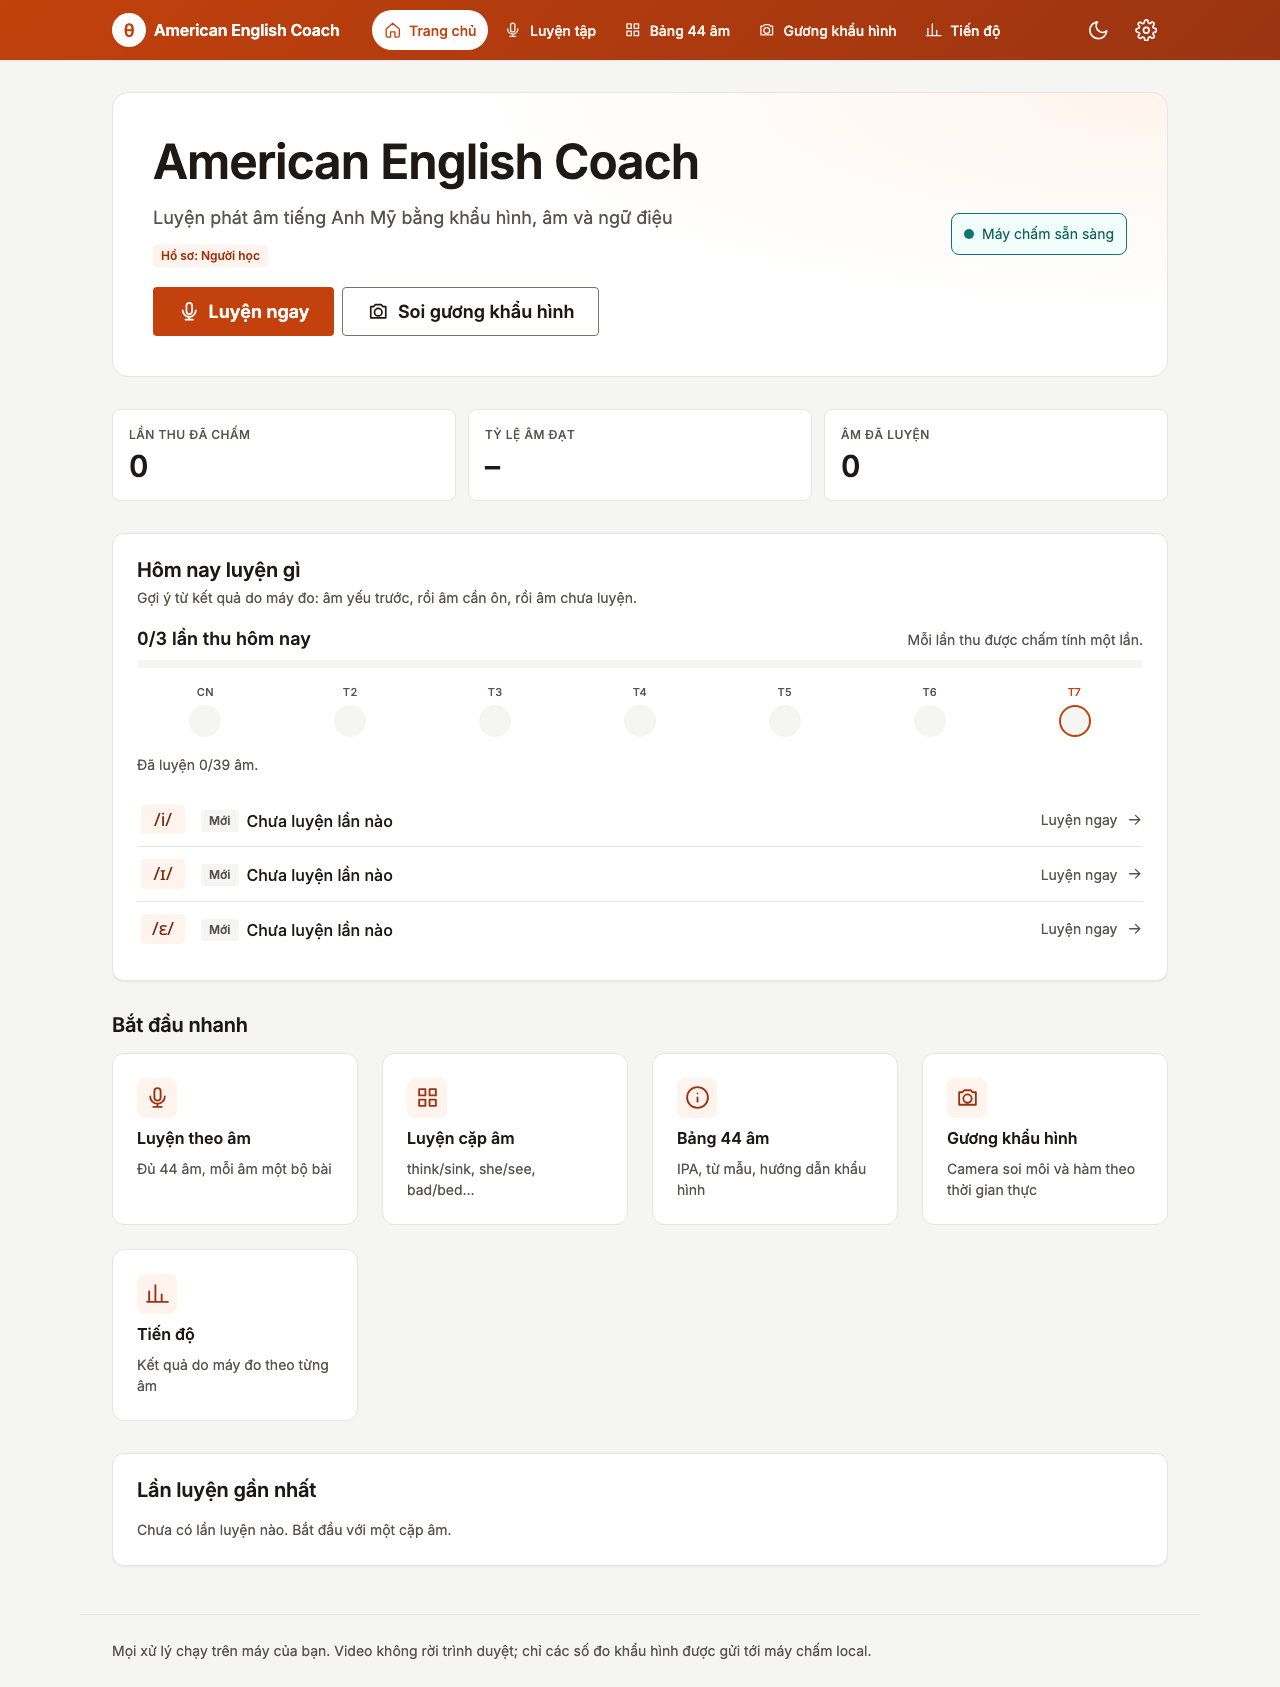
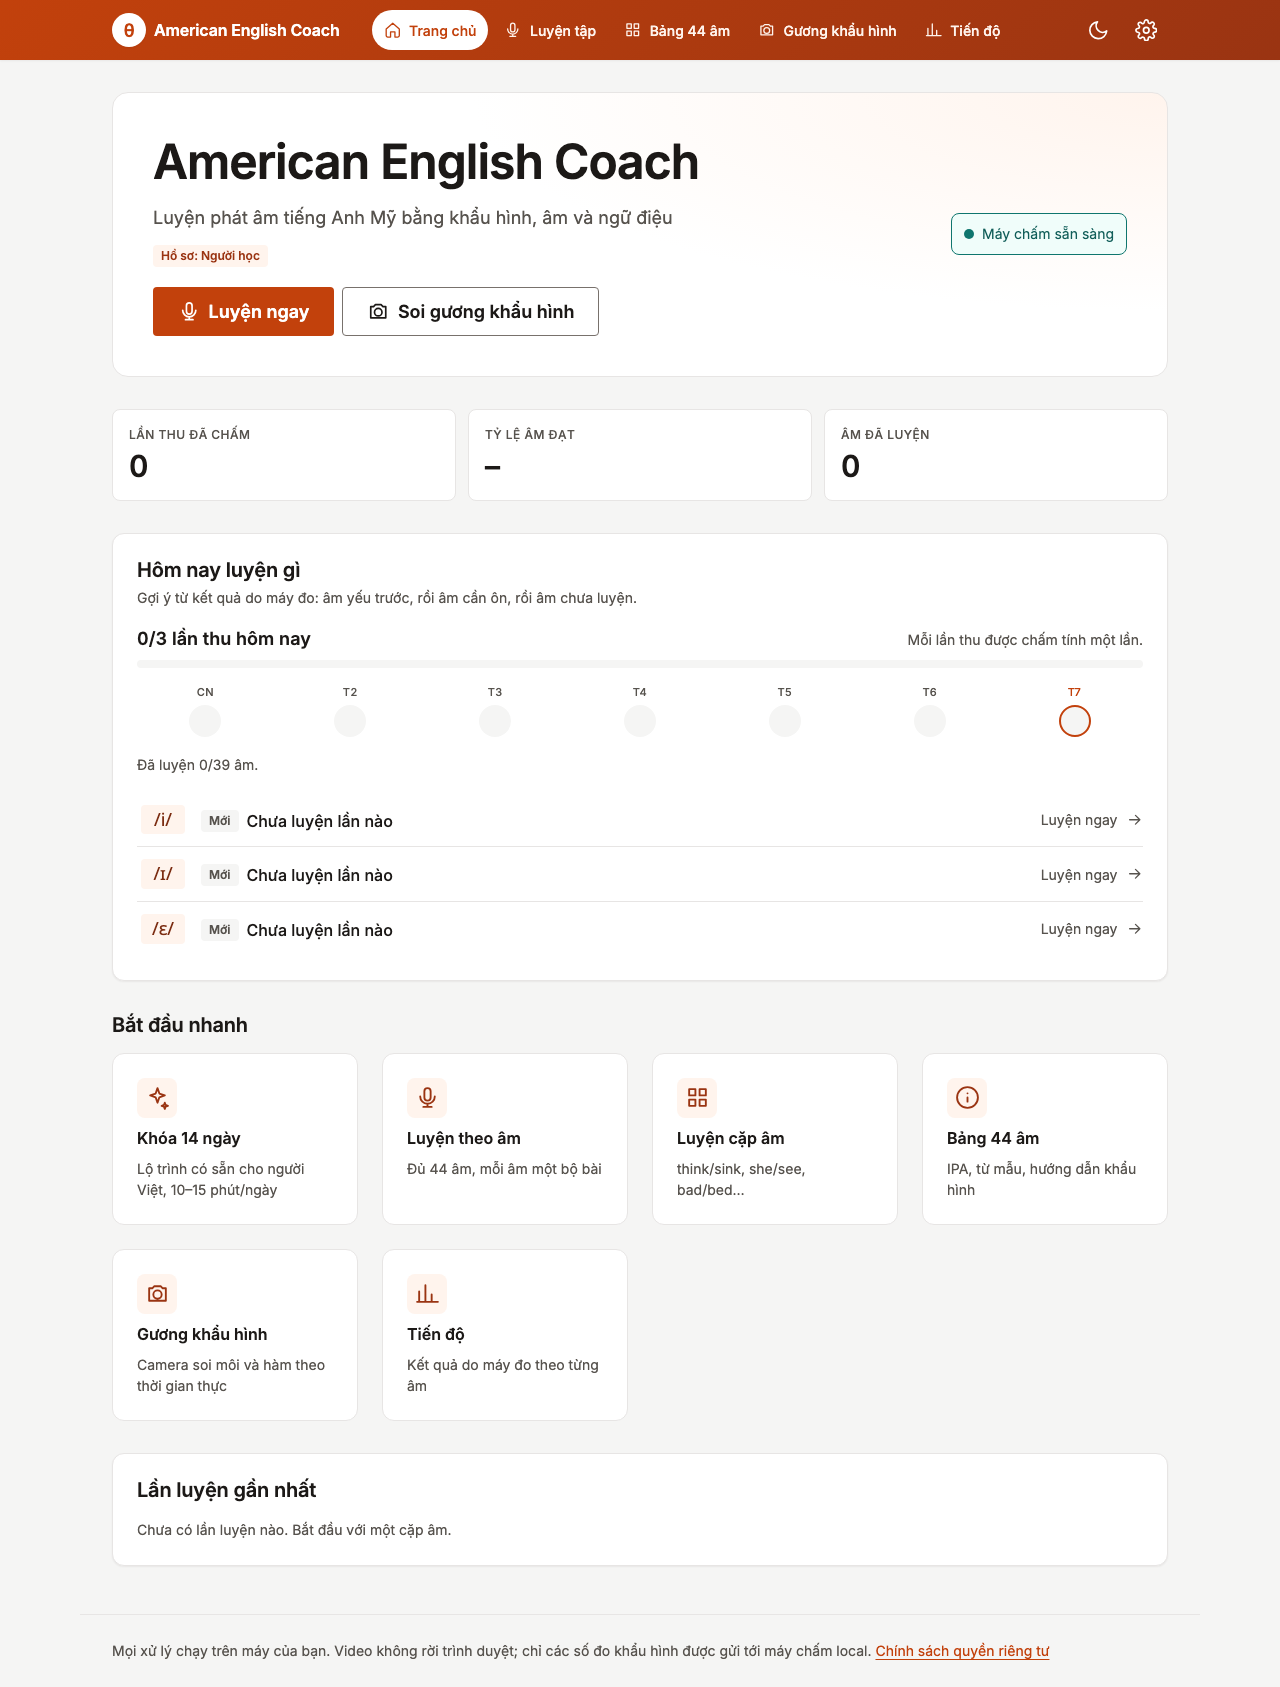
docs(docs): release kit, changelog and version 1.1.0

diff --git a/docs/ROADMAP.md b/docs/ROADMAP.md
@@ -27,8 +27,8 @@ Nguyên tắc không đổi: local-first (video không rời thiết bị), ba m
 | #   | Trạng thái | Hạng mục                              | Tiêu chí nghiệm thu                                                                                                                                                                                  |
 | --- | ---------- | ------------------------------------- | ---------------------------------------------------------------------------------------------------------------------------------------------------------------------------------------------------- |
 | C1  | ☑          | Bộ công cụ pilot người Việt (AEC-023) | `make pilot`: thu thập bản ghi có đồng ý (từ lượt chấm được gắn cờ), bảng chấm tay CSV, script tính precision/recall theo lỗi và sinh `enabled_errors.json` khi precision ≥ 0,85; tài liệu quy trình |
-| C2  | ☐          | Giọng mẫu chất lượng cao (AEC-022)    | Lớp `ReferenceVoice` chọn giọng theo thứ tự: clip người thật có giấy phép (nếu có trong `content/voice/`) → giọng hệ thống nâng cao; manifest giấy phép; phát trên iOS                               |
-| C3  | ☐          | Bài học có cấu trúc                   | Khóa 14 ngày cho người Việt (âm cuối, th, cặp nguyên âm dài/ngắn, trọng âm, ngữ điệu); mỗi ngày 10–15 phút, nối với kế hoạch tuần; nội dung trong `content/course.json` có test tính hợp lệ          |
+| C2  | ☑          | Giọng mẫu chất lượng cao (AEC-022)    | Lớp `ReferenceVoice` chọn giọng theo thứ tự: clip người thật có giấy phép (nếu có trong `content/voice/`) → giọng hệ thống nâng cao; manifest giấy phép; phát trên iOS                               |
+| C3  | ☑          | Bài học có cấu trúc                   | Khóa 14 ngày cho người Việt (âm cuối, th, cặp nguyên âm dài/ngắn, trọng âm, ngữ điệu); mỗi ngày 10–15 phút, nối với kế hoạch tuần; nội dung trong `content/course.json` có test tính hợp lệ          |
 
 ## Giai đoạn D — Phát hành
 
@@ -36,8 +36,8 @@ Nguyên tắc không đổi: local-first (video không rời thiết bị), ba m
 | --- | ---------- | ---------------------------------- | -------------------------------------------------------------------------------------------------------------------------------------------------------------------------- |
 | D1  | ☑          | HTTPS cho máy chấm từ xa (AEC-025) | Hướng dẫn Caddy và Tailscale; app chấp nhận `https://`; CORS cho origin https; kiểm tra tay                                                                                |
 | D2  | ☐          | Hồ sơ phát hành iOS (AEC-024)      | `docs/release/`: checklist TestFlight, văn bản App Store (vi/en), chính sách riêng tư, kích cỡ ảnh chụp, bump version/build theo tag; ký thật cần Apple Team của chủ dự án |
-| D3  | ☐          | Đóng gói Docker đã kiểm chứng      | `make up` build và chạy được, `/ready` xanh trong container                                                                                                                |
-| D4  | ☐          | Phiên bản và nhật ký thay đổi      | `CHANGELOG.md` theo Keep a Changelog; tag `v1.1.0` khi A–B xong                                                                                                            |
+| D3  | ◐          | Đóng gói Docker đã kiểm chứng      | `make up` build và chạy được, `/ready` xanh trong container                                                                                                                |
+| D4  | ◐          | Phiên bản và nhật ký thay đổi      | `CHANGELOG.md` theo Keep a Changelog; tag `v1.1.0` khi A–B xong                                                                                                            |
 
 ## Ngoài phạm vi tự làm (cần chủ dự án)
 

diff --git a/docs/release/app-store.md b/docs/release/app-store.md
@@ -1,0 +1,45 @@
+# Văn bản App Store
+
+## Tiếng Việt
+
+**Tên**: American English Coach
+**Phụ đề** (30): Luyện phát âm bằng khẩu hình
+**Từ khóa** (100): phát âm,tiếng anh,ipa,khẩu hình,luyện nói,english pronunciation,44 âm,th,ngữ điệu
+**Mô tả quảng bá** (170): Máy chấm từng âm chạy ngay trên máy tính của bạn; camera soi khẩu hình; kế hoạch tuần và khóa 14 ngày cho người Việt.
+
+**Mô tả**:
+American English Coach giúp người Việt luyện phát âm tiếng Anh Mỹ theo cách giáo viên làm: nhìn khẩu hình, nghe từng âm, sửa ngữ điệu.
+
+- Đủ 44 âm, mỗi âm một bộ bài: từ, cặp tối thiểu, câu — tất cả đã kiểm tra bằng từ điển.
+- Chấm từng âm bằng mô hình nhận diện âm vị chạy trên máy tính của bạn; ba mức rõ ràng: đạt, nghe lại, sai.
+- Camera theo dõi môi, hàm, răng và lưỡi lộ ra; gương khẩu hình với mẫu cho từng âm.
+- Nhận xét ngữ điệu: trọng âm, nhịp, lên xuống giọng cuối câu.
+- Kế hoạch tuần tính từ kết quả đo: âm yếu, âm cần ôn, âm mới; chuỗi ngày liên tiếp và nhắc luyện.
+- Khóa 14 ngày thiết kế cho lỗi thường gặp của người Việt: âm cuối, th, nguyên âm dài ngắn, trọng âm.
+- Nhiều hồ sơ người học trên một máy chấm; xuất nhập dữ liệu.
+
+Quyền riêng tư: video không bao giờ rời điện thoại. Bản ghi âm và số đo khẩu hình chỉ gửi tới máy chấm do bạn tự chạy trên máy tính trong cùng mạng. Không tài khoản, không quảng cáo, không theo dõi.
+
+Yêu cầu: máy tính (macOS) chạy máy chấm theo hướng dẫn trong ứng dụng.
+
+## English
+
+**Name**: American English Coach
+**Subtitle**: Pronunciation with mouth-shape feedback
+**Keywords**: pronunciation,american english,ipa,mouth shape,speaking,vietnamese,44 sounds,th,intonation
+**Promotional text**: Per-sound scoring that runs on your own computer, a camera mirror for mouth shape, a weekly plan and a 14-day course for Vietnamese learners.
+
+**Description**:
+American English Coach helps Vietnamese learners practise American English the way a teacher does: watch the mouth, listen to every sound, fix the intonation.
+
+- All 44 sounds, one deck each: words, minimal pairs and sentences, all dictionary-checked.
+- Every sound scored by a phoneme model running on your computer, with three honest levels: on target, listen again, wrong.
+- The camera follows lips, jaw, visible teeth and tongue; a mouth mirror with a target for each sound.
+- Intonation feedback: stress, rhythm and the final rise or fall.
+- A weekly plan from measured results: weak sounds, sounds due for review, new sounds; streaks and reminders.
+- A 14-day course built around typical Vietnamese errors: final consonants, th, long and short vowels, stress.
+- Several learner profiles on one scoring server; export and import.
+
+Privacy: video never leaves the phone. Recordings and mouth measurements go only to the scoring server you run on a computer on the same network. No account, no ads, no tracking.
+
+Requires a computer (macOS) running the scoring server as described in the app.

diff --git a/docs/release/README.md b/docs/release/README.md
@@ -1,0 +1,28 @@
+# Phát hành iOS (TestFlight → App Store)
+
+Việc cần Apple Developer Team của chủ dự án được đánh dấu **[Team]**. Mọi bước khác đã sẵn trong repo.
+
+## Trước khi ký
+
+- [ ] `make ci` xanh trên `main`, tag `vX.Y.Z` đã đẩy, `CHANGELOG.md` có mục phiên bản.
+- [ ] Phiên bản thống nhất: `backend/pyproject.toml`, `backend/app/main.py`, `web/package.json`, `web/src/constants/ui.constant.ts`, `MARKETING_VERSION` trong `web/ios/App/App.xcodeproj/project.pbxproj` (tăng `CURRENT_PROJECT_VERSION` mỗi lần nộp).
+- [ ] `make ios-assets` nếu icon/splash đổi; `make ios-build` thành công trên simulator.
+- [ ] Chạy tay trên iPhone thật (camera, micro, ghép nối Wi‑Fi, nhắc luyện) theo `docs/ios.md`.
+
+## Ký và nộp **[Team]**
+
+1. `make ios-open` → Signing & Capabilities: chọn Team, bundle id `com.deputychinh.americanenglishcoach`, bật Automatically manage signing.
+2. Product → Archive → Distribute App → TestFlight & App Store → Upload.
+3. App Store Connect → TestFlight: thêm người thử nội bộ; ghi chú bản thử lấy từ `CHANGELOG.md`.
+4. App Store → bản ghi ứng dụng: điền từ `app-store.md`; Privacy Policy URL trỏ tới trang `/privacy/` của bản web đã triển khai (hoặc tệp `privacy-policy.md` đăng công khai).
+5. App Privacy (bảng câu hỏi): dữ liệu **không** thu thập; audio và số đo khẩu hình chỉ gửi tới máy chấm do người dùng tự vận hành; gia sư AI là tùy chọn, chỉ khi người dùng bấm, gửi tới nhà cung cấp do họ cấu hình. Khai báo "Data Not Collected" và giải thích trong Review Notes.
+6. Review Notes cho Apple: app cần máy chấm chạy trên máy tính cùng mạng; cung cấp video demo hoặc một máy chấm HTTPS tạm (xem `docs/remote-access.md`) kèm mã ghép nối.
+
+## Ảnh chụp
+
+Kích cỡ bắt buộc hiện tại: iPhone 6,9" (1320×2868) và 6,5" (1284×2778); iPad 13" (2064×2752) nếu bật iPad. Chụp trên simulator tương ứng bằng `xcrun simctl io booted screenshot`, mỗi màn: Trang chủ (kế hoạch tuần), Luyện tập (kết quả theo âm), Gương khẩu hình, Khóa 14 ngày, Tiến độ.
+
+## Sau khi phát hành
+
+- Tag release trên GitHub với ghi chú từ `CHANGELOG.md`.
+- Theo dõi crash trong Xcode Organizer; app không có telemetry riêng.

diff --git a/CHANGELOG.md b/CHANGELOG.md
@@ -1,0 +1,27 @@
+# Nhật ký thay đổi
+
+Theo [Keep a Changelog](https://keepachangelog.com/vi/1.1.0/); phiên bản theo [SemVer](https://semver.org/lang/vi/). Phiên bản dùng chung cho API, web và app iOS.
+
+## [Unreleased]
+
+## [1.1.0] - 2026-10-17
+
+### Thêm
+
+- Hồ sơ nhiều người học: tạo/đổi tên/xóa, xuất và nhập tệp `aec-profile/1`; tiến độ, kế hoạch và hiệu chỉnh tách theo hồ sơ (header `X-Coach-Profile`, migration 0003).
+- Kế hoạch tuần: `GET /plan` với chuỗi ngày liên tiếp, 7 ngày gần nhất theo múi giờ người học, 3 âm trọng tâm có lý do (yếu / ôn lại / mới); thẻ "Hôm nay luyện gì", mục tiêu mỗi ngày và nhắc luyện hằng ngày trên iOS.
+- Khóa 14 ngày cho người Việt (`content/course.json`, `GET /course`, trang `/course/`) với tiến độ theo từng mục.
+- Màn hình bắt đầu lần đầu (`/welcome/`): quyền micro/camera có giải thích, hồ sơ, hiệu chỉnh.
+- Giao diện song ngữ Việt/Anh, đổi trong Cài đặt; không còn chuỗi cứng trong mã.
+- Thư viện giọng người thật có giấy phép (`content/voice/`) ưu tiên trước giọng tổng hợp; header `X-Coach-Voice`.
+- Công cụ pilot: `make pilot-export` / `make pilot-report` để bật mức `error` theo precision đo được.
+- Kiểm tra tiếp cận bằng axe-core trên 10 trang trong e2e; hướng dẫn HTTPS từ xa (Tailscale/Caddy).
+
+### Sửa
+
+- Mốc thời gian trả về đúng UTC (`Z`), hiển thị đúng giờ Việt Nam.
+- Image Docker: thêm Alembic, `httpx` là phụ thuộc chạy, torch bản CPU cho Linux.
+
+## [1.0.0] - 2026-10-17
+
+- Bản đầu: chấm 44 âm bằng wav2vec2 + GOP, gương khẩu hình MediaPipe, prosody, gia sư AI, ghép nối điện thoại, app iOS Capacitor.

diff --git a/docs/release/privacy-policy.md b/docs/release/privacy-policy.md
@@ -1,0 +1,20 @@
+# Chính sách quyền riêng tư — American English Coach
+
+Cập nhật: 2026-10-17
+
+**Ai vận hành**: ứng dụng và máy chấm là phần mềm bạn tự chạy. Không có máy chủ của nhà phát triển nhận dữ liệu của bạn.
+
+**Dữ liệu được xử lý ở đâu**
+
+- Video camera: chỉ xử lý trên thiết bị (trình duyệt hoặc app) để đo khẩu hình; không lưu, không gửi đi.
+- Số đo khẩu hình (tám đặc trưng số và điểm viền môi) và bản ghi âm của lượt luyện: gửi tới **máy chấm bạn tự chạy** trên máy tính trong cùng mạng (hoặc qua HTTPS do bạn cấu hình). Bản ghi âm được chấm rồi bỏ; kết quả (điểm từng âm) lưu trong tệp SQLite trên máy chấm đó.
+- Hồ sơ người học, lựa chọn giao diện, mục tiêu ngày: lưu trên thiết bị và trên máy chấm của bạn.
+- Gia sư AI (tùy chọn, mặc định tắt): chỉ khi bạn cấu hình nhà cung cấp và bấm nút, ứng dụng gửi kết quả đã chấm (văn bản) hoặc **một ảnh miệng** tới nhà cung cấp đó theo điều khoản của họ.
+
+**Không có**: tài khoản, quảng cáo, telemetry, phân tích hành vi, chia sẻ với bên thứ ba.
+
+**Quyền truy cập**: Camera và Micro (chỉ khi bạn bật), Mạng nội bộ (để tới máy chấm), Thông báo (nhắc luyện, tùy chọn).
+
+**Xóa dữ liệu**: Cài đặt → "Xóa dữ liệu trên thiết bị này"; trên máy chấm, xóa hồ sơ trong Cài đặt → Hồ sơ hoặc xóa tệp `data/coach.sqlite3`.
+
+**Liên hệ**: qua trang GitHub của dự án.

diff --git a/docs/backlog.md b/docs/backlog.md
@@ -31,7 +31,7 @@ Mỗi ticket có tiêu chí nghiệm thu; một commit Conventional Commit cho m
 | ------- | ---------- | ----------------------------------------------- | ---------------------------------------------------------------------------------------------- |
 | AEC-020 | ☑          | Hồ sơ nhiều người học                           | Chọn/tạo hồ sơ; kết quả và hiệu chỉnh theo hồ sơ; export/import                                |
 | AEC-021 | ☑          | Lộ trình học theo tuần                          | Kế hoạch từ tiến độ đo được; nhắc luyện; thẻ "hôm nay"                                         |
-| AEC-022 | ☐          | Giọng mẫu người thật                            | Bộ clip có giấy phép thay `say` cho 44 âm + câu                                                |
+| AEC-022 | ◐          | Giọng mẫu người thật                            | Bộ clip có giấy phép thay `say` cho 44 âm + câu                                                |
 | AEC-023 | ◐          | Pilot người Việt và bật `error` theo bằng chứng | Precision ≥ 0,85 trên tập người Việt; `enabled_errors.json` sinh từ dữ liệu thật               |
 | AEC-024 | ☐          | Phát hành iOS                                   | Ký với Team, TestFlight nội bộ, App Store metadata, ảnh chụp theo kích cỡ, chính sách riêng tư |
 | AEC-025 | ☑          | HTTPS cho máy chấm từ xa                        | Caddy/Tailscale; app chấp nhận `https://`                                                      |
